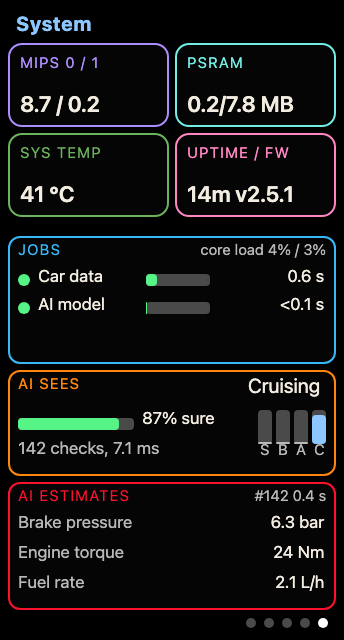
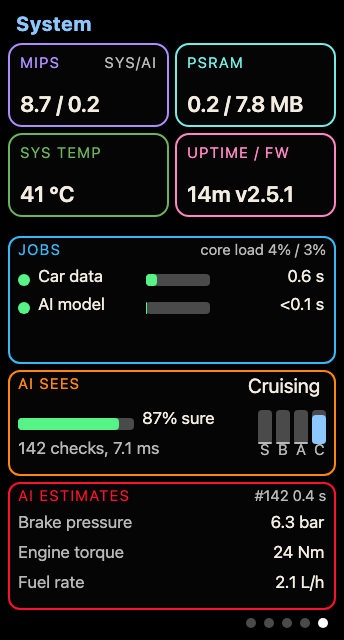
MIPS SYS/AI, spaced PSRAM value, CPU monitor on a fixed one-second release
* MIPS tile shows SYS/AI, CPU monitor on a fixed one-second release

Page 5: caption MIPS on the left, SYS/AI on the right (31 + 39 px of the tile's 73 px), values in the
same order: core 0 runs Bluetooth, the Wi-Fi clock, the display and the scheduler, core 1 the car data,
the model and the learner. cpu_monitor uses vTaskDelayUntil instead of vTaskDelay so each sample is
released on a fixed period; the MIPS values were already exact (instructions over counted cycles).

Claude-Session: https://claude.ai/code/session_01XTAvvNGWPbxk6e88iM5qjd

* PSRAM value spaced like MIPS: 0.2 / 7.8 MB

Claude-Session: https://claude.ai/code/session_01XTAvvNGWPbxk6e88iM5qjd

---------

Changed region(s): [[0.6395, 0.125, 0.9012, 0.1875], [0.2907, 0.0938, 0.436, 0.125], [0.2326, 0.0938, 0.2616, 0.125]]

diff --git a/docs/screens/screens.html b/docs/screens/screens.html
@@ -65,8 +65,8 @@ body{margin:0;background:#0A0A0A;font-family:Montserrat,system-ui,sans-serif;col
 <div class="scr" id="system">
  <div style="padding:12px 16px 4px;font-size:20px"><span class="brand">System</span></div>
  <div class="grid2" style="padding:4px 8px 0;gap:6px;white-space:nowrap">
-  <div class="tile" style="height:84px;border:2px solid #AD8DFD"><span class="cap" style="font-size:15px;color:#AD8DFD">MIPS 0 / 1</span><span style="font-size:22px;font-weight:600">8.7 / 0.2</span></div>
-  <div class="tile" style="height:84px;border:2px solid #72ECE4"><span class="cap" style="font-size:15px;color:#72ECE4">PSRAM</span><span style="font-size:22px;font-weight:600">0.2/7.8 MB</span></div>
+  <div class="tile" style="height:84px;border:2px solid #AD8DFD"><span class="cap" style="font-size:15px;color:#AD8DFD;display:flex;justify-content:space-between">MIPS<span style="color:#B8B8B8">SYS/AI</span></span><span style="font-size:22px;font-weight:600">8.7 / 0.2</span></div>
+  <div class="tile" style="height:84px;border:2px solid #72ECE4"><span class="cap" style="font-size:15px;color:#72ECE4">PSRAM</span><span style="font-size:22px;font-weight:600">0.2 / 7.8 MB</span></div>
   <div class="tile" style="height:84px;border:2px solid #6CB35D"><span class="cap" style="font-size:15px;color:#6CB35D">SYS TEMP</span><span style="font-size:22px;font-weight:600">41 °C</span></div>
   <div class="tile" style="height:84px;border:2px solid #FE86C2"><span class="cap" style="font-size:15px;color:#FE86C2">UPTIME / FW</span><span style="font-size:22px;font-weight:600">14m  v2.5.1</span></div>
  </div>
@@ -78,8 +78,8 @@ body{margin:0;background:#0A0A0A;font-family:Montserrat,system-ui,sans-serif;col
 <div class="scr" id="system-rev">
  <div style="padding:12px 16px 4px;font-size:20px"><span class="brand">System</span></div>
  <div class="grid2" style="padding:4px 8px 0;gap:6px;white-space:nowrap">
-  <div class="tile" style="height:84px;border:2px solid #AD8DFD"><span class="cap" style="font-size:15px;color:#AD8DFD">MIPS 0 / 1</span><span style="font-size:22px;font-weight:600">8.7 / 0.2</span></div>
-  <div class="tile" style="height:84px;border:2px solid #72ECE4"><span class="cap" style="font-size:15px;color:#72ECE4">PSRAM</span><span style="font-size:22px;font-weight:600">0.2/7.8 MB</span></div>
+  <div class="tile" style="height:84px;border:2px solid #AD8DFD"><span class="cap" style="font-size:15px;color:#AD8DFD;display:flex;justify-content:space-between">MIPS<span style="color:#B8B8B8">SYS/AI</span></span><span style="font-size:22px;font-weight:600">8.7 / 0.2</span></div>
+  <div class="tile" style="height:84px;border:2px solid #72ECE4"><span class="cap" style="font-size:15px;color:#72ECE4">PSRAM</span><span style="font-size:22px;font-weight:600">0.2 / 7.8 MB</span></div>
   <div class="tile" style="height:84px;border:2px solid #6CB35D"><span class="cap" style="font-size:15px;color:#6CB35D">SYS TEMP</span><span style="font-size:22px;font-weight:600">41 °C</span></div>
   <div class="tile" style="height:84px;border:2px solid #FE86C2"><span class="cap" style="font-size:15px;color:#FE86C2">UPTIME / FW</span><span style="font-size:22px;font-weight:600">14m  v2.5.1</span></div>
  </div>

diff --git a/main/display.c b/main/display.c
@@ -633,7 +633,7 @@ static void build_page4(void)
     s4_head = make_label(scr4, &lv_font_montserrat_14, C_ACCENT);
     lv_label_set_text(s4_head, "System");
     lv_obj_set_pos(s4_head, 8, 4);
-    static const char *caps[4] = {"MIPS 0 / 1", "PSRAM", "SYS TEMP", "UPTIME / FW"};    /* SYS TEMP = the chip's own sensor, page 1 CAR TEMP = coolant */
+    static const char *caps[4] = {"MIPS", "PSRAM", "SYS TEMP", "UPTIME / FW"};    /* SYS TEMP = the chip's own sensor, page 1 CAR TEMP = coolant */
     const uint32_t cols[4] = {C_VIOLET, C_TEAL, C_SAGE, C_PINK};            /* TL TR / BL BR */
     for (int i = 0; i < 4; i++) {
         int x = 4 + (i % 2) * 83, y = 24 + (i / 2) * 46;
@@ -649,6 +649,13 @@ static void build_page4(void)
         lv_obj_t *cap = make_label(t, &lv_font_montserrat_12, cols[i]);
         lv_label_set_text(cap, caps[i]);
         lv_obj_align(cap, LV_ALIGN_TOP_LEFT, 0, -2);
+        if (i == 0) {
+            /* which core each number belongs to: SYS = core 0 (Bluetooth, Wi-Fi clock, display, scheduler),
+               AI = core 1 (car data, the model, the learner). "MIPS" 31 px + "SYS/AI" 39 px fit the 73 px inside */
+            lv_obj_t *who = make_label(t, &lv_font_montserrat_12, C_MUTED);
+            lv_label_set_text(who, "SYS/AI");
+            lv_obj_align(who, LV_ALIGN_TOP_RIGHT, 0, -2);
+        }
         s4_tile_val[i] = make_label(t, &lv_font_montserrat_12, C_TEXT);
         lv_obj_set_size(s4_tile_val[i], 75, 16);                    /* fixed size: LONG_DOT only clips with both set */
         lv_label_set_long_mode(s4_tile_val[i], LV_LABEL_LONG_DOT);
@@ -860,9 +867,9 @@ static void refresh_est(const app_status_t *st)
 
 static void refresh_page4(const app_status_t *st)
 {
-    lv_label_set_text_fmt(s4_tile_val[0], "%.1f / %.1f", st->pmu_mips[0], st->pmu_mips[1]);   /* hardware counters, per core */
+    lv_label_set_text_fmt(s4_tile_val[0], "%.1f / %.1f", st->pmu_mips[0], st->pmu_mips[1]);   /* hardware counters: SYS (core 0) / AI (core 1) */
     uint32_t used_kb = st->psram_total_kb > st->psram_free_kb ? st->psram_total_kb - st->psram_free_kb : 0;
-    lv_label_set_text_fmt(s4_tile_val[1], "%.1f/%.1f MB", used_kb / 1024.0, st->psram_total_kb / 1024.0);
+    lv_label_set_text_fmt(s4_tile_val[1], "%.1f / %.1f MB", used_kb / 1024.0, st->psram_total_kb / 1024.0);   /* "7.8 / 7.8 MB" is 70 of 75 px */
     if (isfinite(st->chip_temp_c)) {
         bool us = (units_t)st->units == UNITS_US;
         lv_label_set_text_fmt(s4_tile_val[2], "%.0f \xC2\xB0%c", us ? st->chip_temp_c * 9.0f / 5.0f + 32.0f : st->chip_temp_c, us ? 'F' : 'C');

diff --git a/main/cpu_monitor.c b/main/cpu_monitor.c
@@ -129,8 +129,12 @@ static void cpu_task(void *arg)
     uint32_t prev_total = 0;
     pmu_setup(NULL);
     esp_ipc_call_blocking(1, pmu_setup, NULL);
+    /* fixed-rate release (the FreeRTOS form of clock_nanosleep with TIMER_ABSTIME): a relative vTaskDelay would start
+       each second only after the previous loop ended, so the period would stretch with the loop time and preemption.
+       MIPS stays exact either way (instructions over the cycles actually counted); this keeps the screen's cadence. */
+    TickType_t release = xTaskGetTickCount();
     for (;;) {
-        vTaskDelay(pdMS_TO_TICKS(1000));
+        vTaskDelayUntil(&release, pdMS_TO_TICKS(1000));
         uint32_t total = 0;
         UBaseType_t n = uxTaskGetSystemState(snap, 40, &total);
         uint32_t idle[2] = {0, 0};

diff --git a/CHANGELOG.md b/CHANGELOG.md
@@ -5,6 +5,7 @@
 A new brand, a screen made for the LCD, and a visible power-off.
 
 - Page 1 labels the coolant CAR TEMP and page 5 labels the chip's own temperature SYS TEMP.
+- Page 5 MIPS tile says which core is which: SYS (Bluetooth, Wi-Fi clock, display) and AI (car data, the model, the learner). The CPU monitor now releases on a fixed one-second period.
 - Light theme reworked for the LCD: pure white view with tiles drawn by their borders, brand navy text, a light blue accent, warm oranges in place of dark browns, a coral power bar, and vivid section colours on page 5. The Mosaico concept shows its three screens in the dark, light and dark themes.
 - **Brand**: a new night-drive palette (navy, warm ink, cobalt, amber) across the README, the website, the desktop app and its icons, and a sharper vector logo. Banner chips now read ESP32-S3, Bluetooth LE, TinyML, Desktop app and Active Learning.
 - **Screen colours for a backlit LCD**: the dark theme is pure black, because any tint in the background glows through the backlight. Text is 4.5:1 or more on every background in both themes. Page 5 gives each of its seven sections its own colour (classifier orange, estimator red), checked for normal and colour-blind vision.
